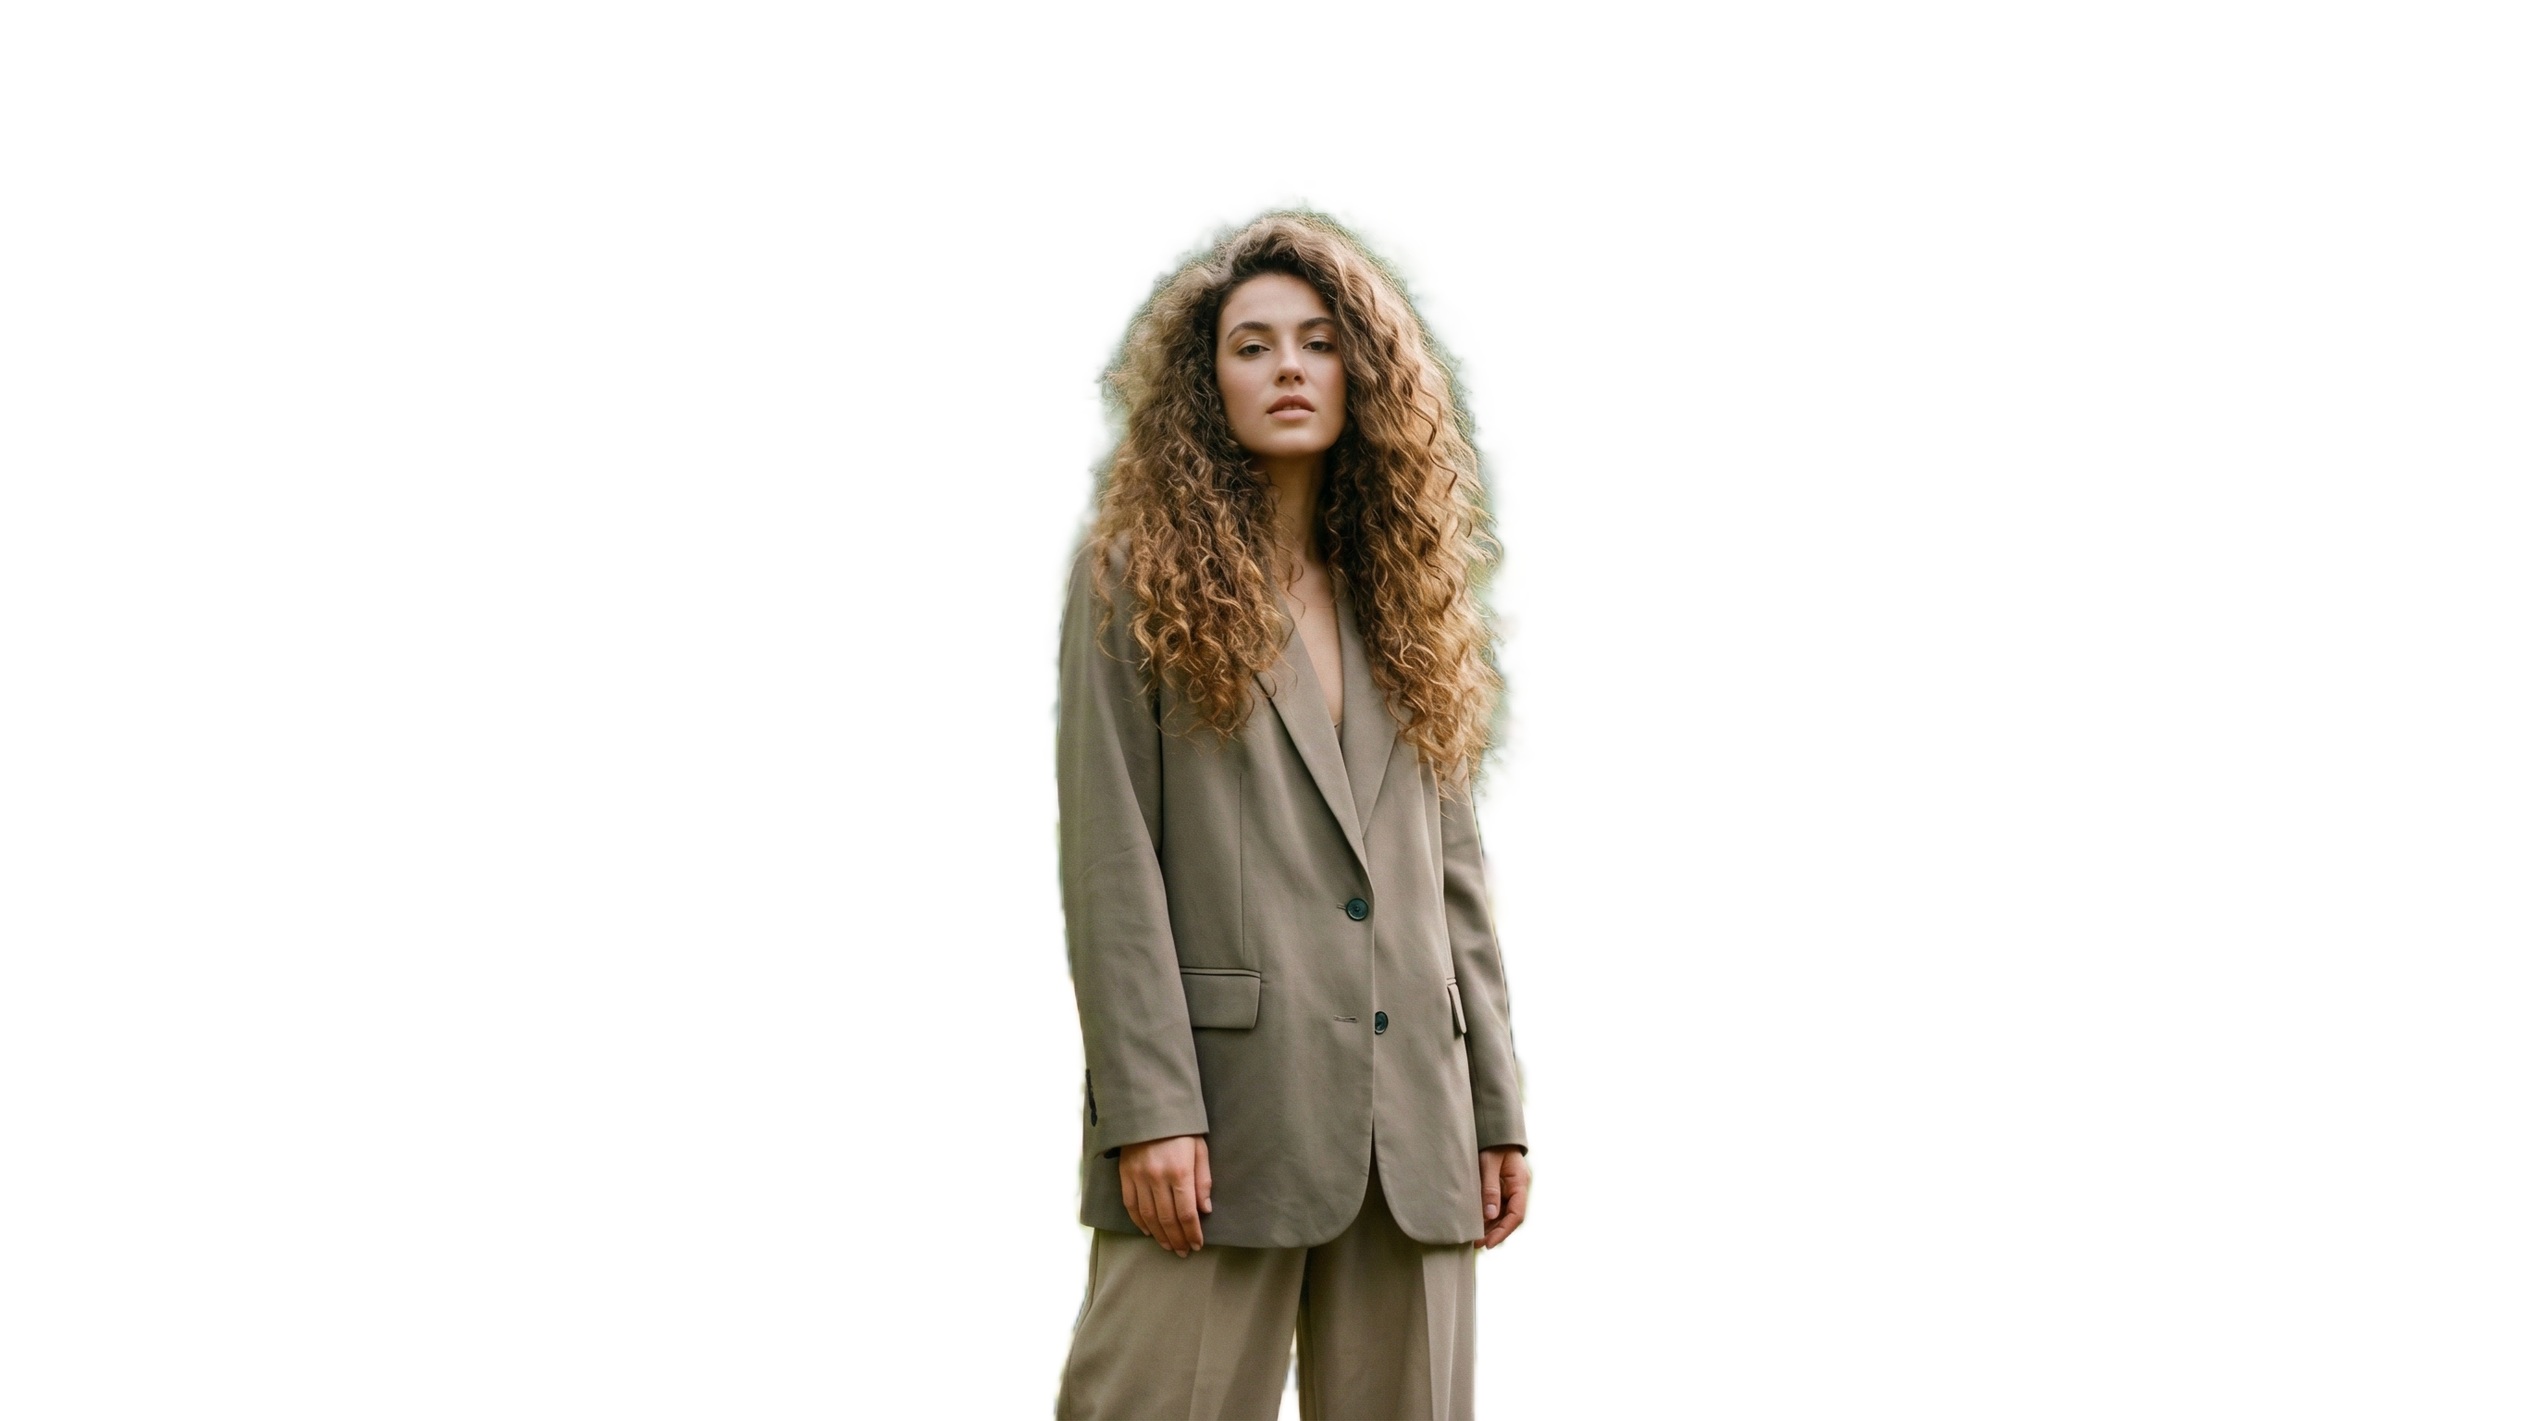
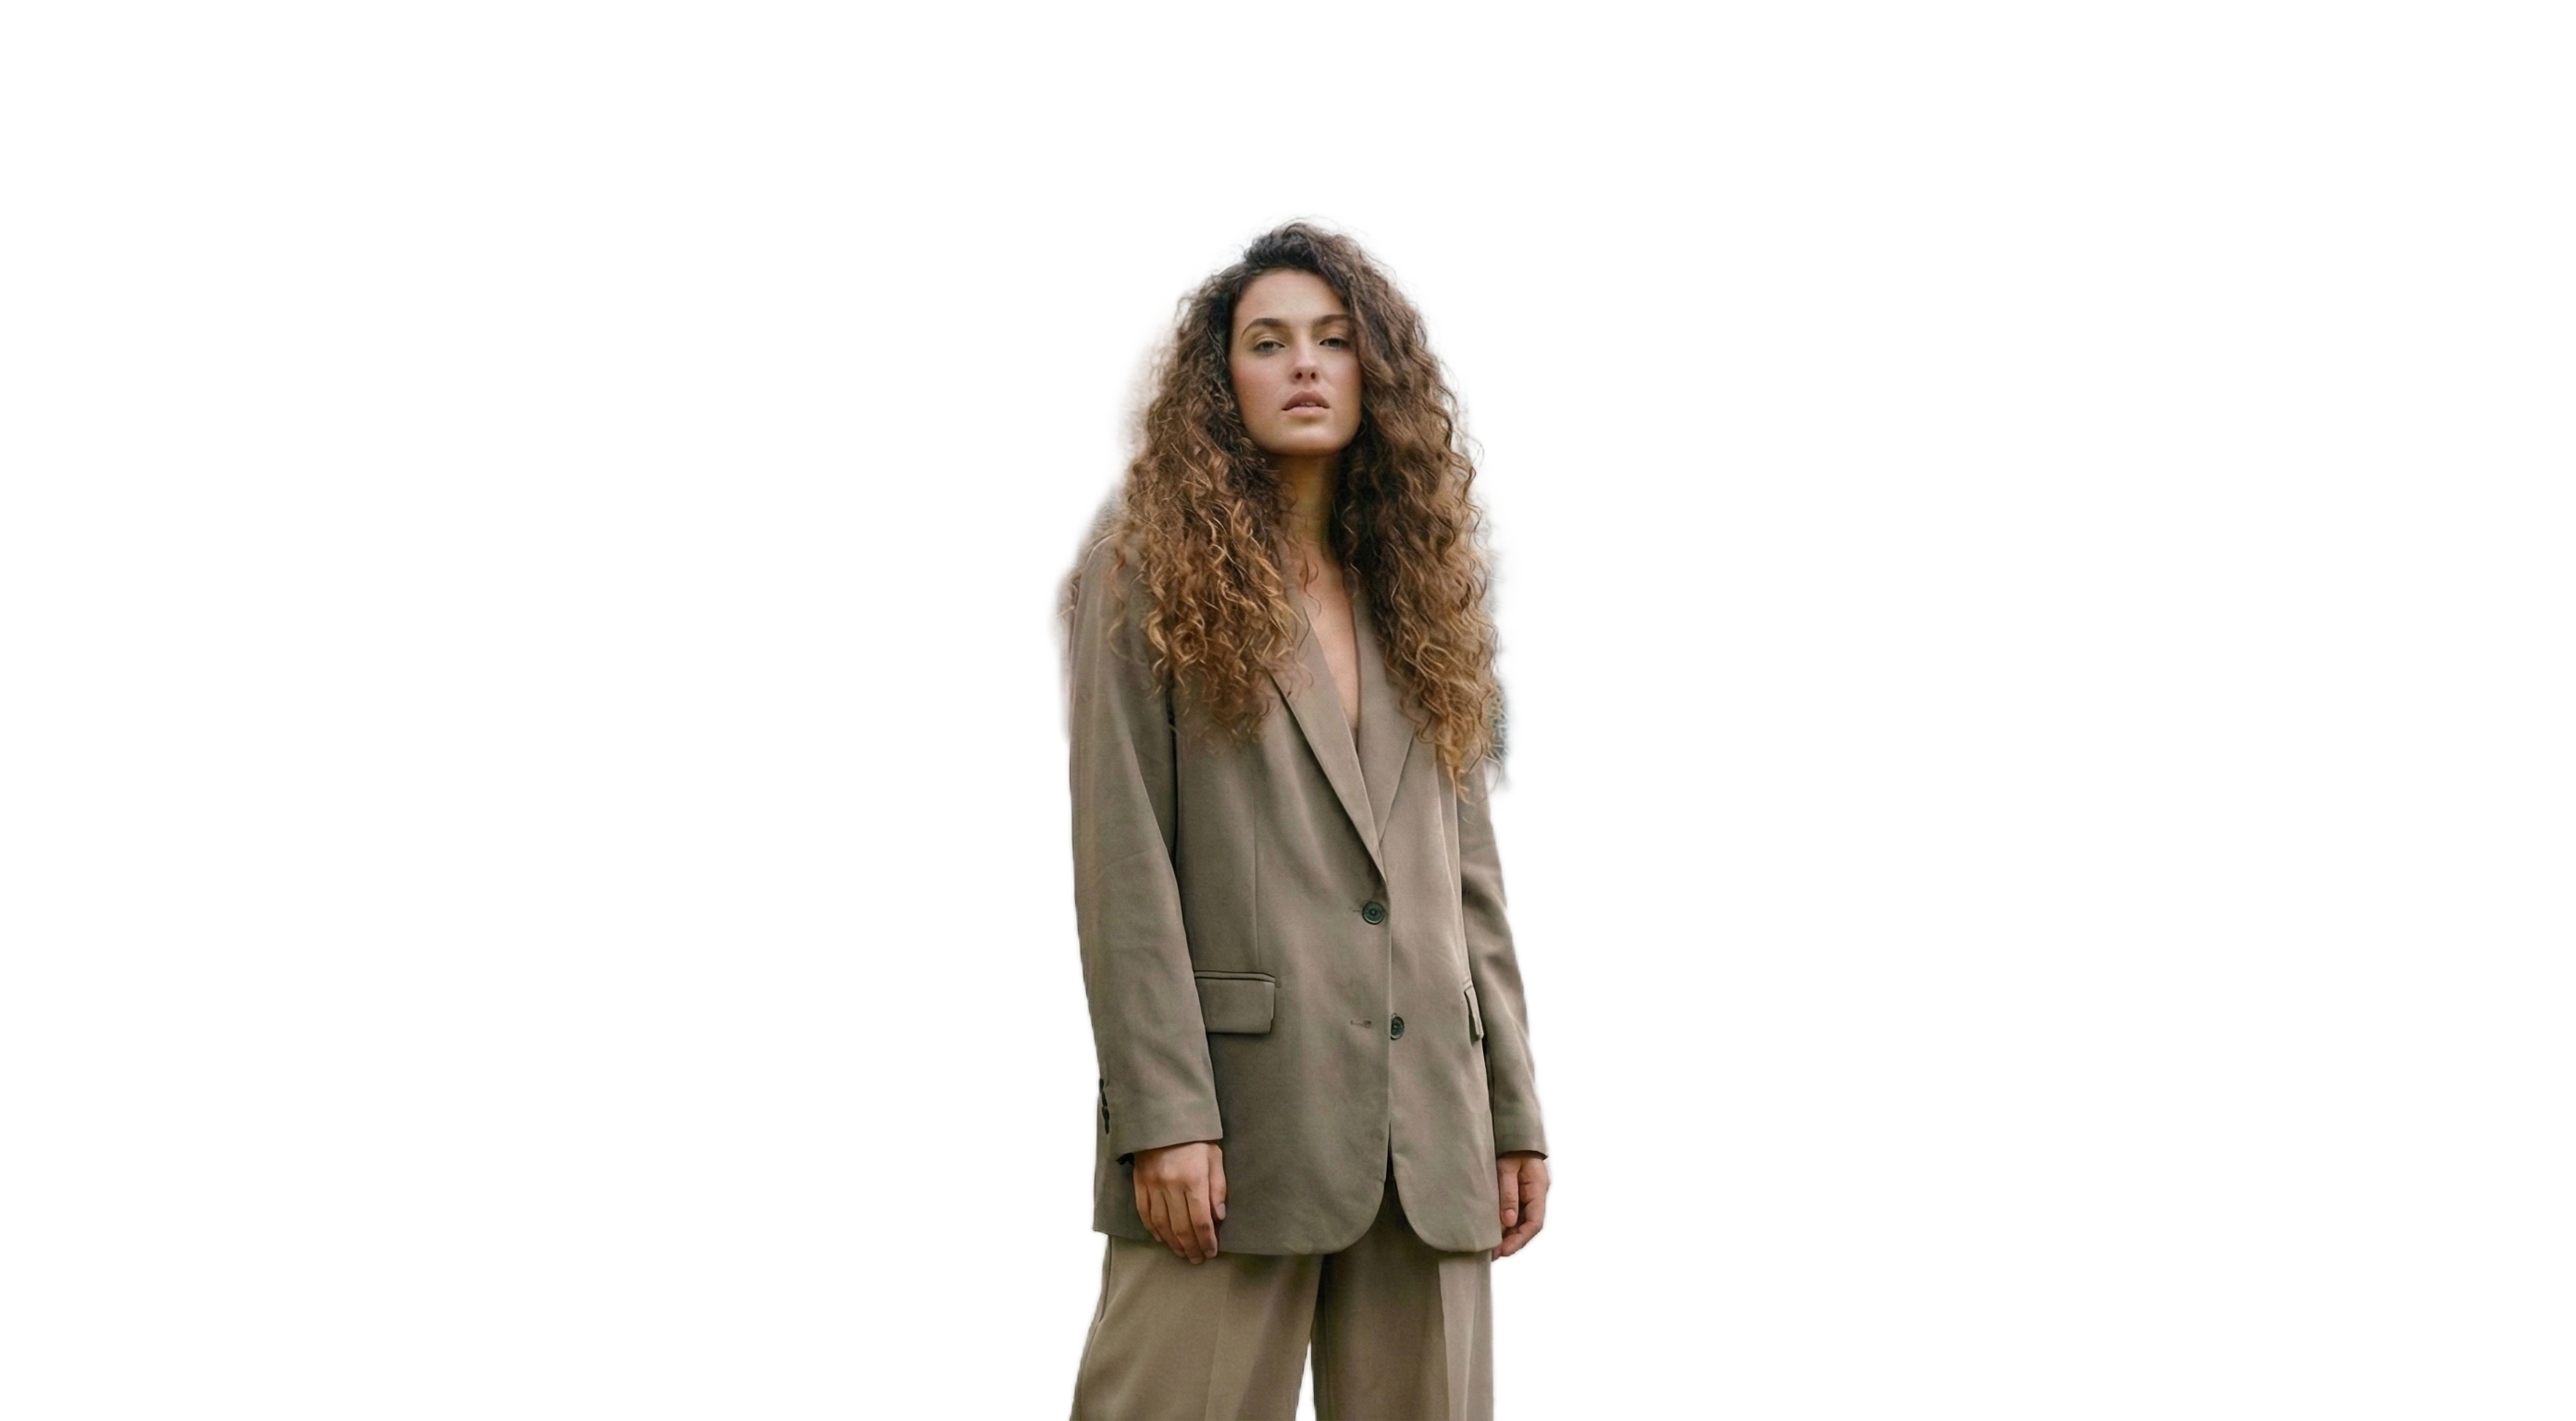
feat: enhance editor, add legal pages, and refine animations
- Added Privacy Policy and Terms of Service pages with navigation back to home.
- Fixed unclickable 'Apply & Done' button by resolving z-index conflicts.
- Optimized aspect ratio handling and enabled 'Free' crop mode by default.
- Refined animation speeds across the app for a snappier feel.
- Standardized global styles import in Layout.astro.
- Cleaned up footer by removing Cookie Policy and redundant links.

diff --git a/src/components/Footer.tsx b/src/components/Footer.tsx
@@ -1,10 +1,12 @@
 import { Zap } from "lucide-react";
 
 export default function Footer() {
+	const currentYear = new Date().getFullYear();
+
 	return (
 		<footer className="relative py-20 px-6 border-t border-border bg-card">
 			<div className="max-w-[1400px] mx-auto">
-				<div className="grid grid-cols-1 md:grid-cols-4 gap-12 mb-16">
+				<div className="grid grid-cols-1 md:grid-cols-3 gap-12 mb-16">
 					<div className="col-span-1 md:col-span-2 space-y-6">
 						<div className="flex items-center gap-2 text-sm font-medium">
 							<div className="w-8 h-8 bg-primary rounded-lg flex items-center justify-center">
@@ -19,74 +21,31 @@ export default function Footer() {
 					</div>
 
 					<div className="space-y-4">
-						<h4 className="text-sm font-semibold text-foreground">Product</h4>
-						<ul className="space-y-2 text-sm text-muted-foreground">
-							<li>
-								<a
-									href="/remove"
-									className="hover:text-foreground transition-colors"
-								>
-									Remover
-								</a>
-							</li>
-							<li>
-								<a
-									href="/#features"
-									className="hover:text-foreground transition-colors"
-								>
-									Features
-								</a>
-							</li>
-							<li>
-								<a
-									href="/#how-it-works"
-									className="hover:text-foreground transition-colors"
-								>
-									How it works
-								</a>
-							</li>
-						</ul>
-					</div>
-
-					<div className="space-y-4">
 						<h4 className="text-sm font-semibold text-foreground">Legal</h4>
 						<ul className="space-y-2 text-sm text-muted-foreground">
 							<li>
-								<a href="/" className="hover:text-foreground transition-colors">
+								<a
+									href="/privacy"
+									className="hover:text-foreground transition-colors"
+								>
 									Privacy Policy
 								</a>
 							</li>
 							<li>
-								<a href="/" className="hover:text-foreground transition-colors">
+								<a
+									href="/terms"
+									className="hover:text-foreground transition-colors"
+								>
 									Terms of Service
-								</a>
-							</li>
-							<li>
-								<a href="/" className="hover:text-foreground transition-colors">
-									Cookie Policy
 								</a>
 							</li>
 						</ul>
 					</div>
 				</div>
 
-				<div className="flex flex-col md:flex-row items-center justify-between gap-6 pt-8 border-t border-border">
+				<div className="flex flex-col md:flex-row items-center justify-center gap-6 pt-8 border-t border-border">
 					<div className="flex items-center gap-2 text-xs text-muted-foreground">
-						<span>© 2026 PureBG AI. All rights reserved.</span>
-					</div>
-					<div className="flex items-center gap-6 text-xs text-muted-foreground">
-						<a
-							href="https://github.com"
-							className="hover:text-foreground transition-colors"
-						>
-							GitHub
-						</a>
-						<a
-							href="https://twitter.com"
-							className="hover:text-foreground transition-colors"
-						>
-							Twitter
-						</a>
+						<span>© {currentYear} PureBG AI. All rights reserved.</span>
 					</div>
 				</div>
 			</div>

diff --git a/src/components/editor/EditorSidebar.tsx b/src/components/editor/EditorSidebar.tsx
@@ -4,9 +4,13 @@ import {
 	FlipVertical,
 	Keyboard,
 	Maximize,
+	Monitor,
+	Move,
 	Paintbrush,
 	Palette,
 	RotateCw,
+	Smartphone,
+	Square,
 	Undo2,
 	ZoomIn,
 } from "lucide-react";
@@ -49,6 +53,9 @@ export default function EditorSidebar() {
 		setFlipY,
 		zoom,
 		setZoom,
+		aspect,
+		setAspect,
+		imageAspect,
 	} = useEditorStore();
 
 	return (
@@ -223,6 +230,62 @@ export default function EditorSidebar() {
 									onClick={() => setFlipY(!flipY)}
 								>
 									<FlipVertical className="w-4 h-4" />
+								</Button>
+							</div>
+						</div>
+
+						<div>
+							<h4 className="text-xs font-black text-muted-foreground uppercase tracking-widest mb-4 flex items-center gap-2">
+								<Square className="w-3 h-3" /> Aspect Ratio
+							</h4>
+							<div className="grid grid-cols-3 gap-2">
+								<Button
+									variant="secondary"
+									className={`h-auto py-2.5 flex-col gap-1 text-[10px] uppercase font-bold tracking-tight ${aspect === imageAspect ? "bg-primary/10 text-primary border-primary/20" : ""}`}
+									onClick={() => setAspect(imageAspect)}
+								>
+									<Maximize className="w-3.5 h-3.5" />
+									Original
+								</Button>
+								<Button
+									variant="secondary"
+									className={`h-auto py-2.5 flex-col gap-1 text-[10px] uppercase font-bold tracking-tight ${aspect === undefined ? "bg-primary/10 text-primary border-primary/20" : ""}`}
+									onClick={() => setAspect(undefined)}
+								>
+									<Move className="w-3.5 h-3.5" />
+									Free
+								</Button>
+								<Button
+									variant="secondary"
+									className={`h-auto py-2.5 flex-col gap-1 text-[10px] uppercase font-bold tracking-tight ${aspect === 1 ? "bg-primary/10 text-primary border-primary/20" : ""}`}
+									onClick={() => setAspect(1)}
+								>
+									<Square className="w-3.5 h-3.5" />
+									1:1
+								</Button>
+								<Button
+									variant="secondary"
+									className={`h-auto py-2.5 flex-col gap-1 text-[10px] uppercase font-bold tracking-tight ${aspect === 4 / 3 ? "bg-primary/10 text-primary border-primary/20" : ""}`}
+									onClick={() => setAspect(4 / 3)}
+								>
+									<div className="w-4 h-3 border-2 border-current rounded-sm shrink-0" />
+									4:3
+								</Button>
+								<Button
+									variant="secondary"
+									className={`h-auto py-2.5 flex-col gap-1 text-[10px] uppercase font-bold tracking-tight ${aspect === 16 / 9 ? "bg-primary/10 text-primary border-primary/20" : ""}`}
+									onClick={() => setAspect(16 / 9)}
+								>
+									<Monitor className="w-3.5 h-3.5" />
+									16:9
+								</Button>
+								<Button
+									variant="secondary"
+									className={`h-auto py-2.5 flex-col gap-1 text-[10px] uppercase font-bold tracking-tight ${aspect === 9 / 16 ? "bg-primary/10 text-primary border-primary/20" : ""}`}
+									onClick={() => setAspect(9 / 16)}
+								>
+									<Smartphone className="w-3.5 h-3.5" />
+									9:16
 								</Button>
 							</div>
 						</div>

diff --git a/src/components/editor/useEditorStore.ts b/src/components/editor/useEditorStore.ts
@@ -10,7 +10,8 @@ interface EditorState {
 	// Crop/Transform
 	crop: Point;
 	zoom: number;
-	aspect: number;
+	aspect: number | undefined;
+	imageAspect: number | undefined;
 	rotation: number;
 	flipX: boolean;
 	flipY: boolean;
@@ -43,7 +44,8 @@ interface EditorActions {
 	setCrop: (crop: Point | ((p: Point) => Point)) => void;
 	setZoom: (zoom: number | ((z: number) => number)) => void;
 
-	setAspect: (aspect: number) => void;
+	setAspect: (aspect: number | undefined) => void;
+	setImageAspect: (aspect: number) => void;
 	setRotation: (rotation: number | ((r: number) => number)) => void;
 	setFlipX: (flip: boolean) => void;
 	setFlipY: (flip: boolean) => void;
@@ -76,7 +78,8 @@ const initialState: EditorState = {
 	processedImageSource: "",
 	crop: { x: 0, y: 0 },
 	zoom: 1,
-	aspect: 4 / 3,
+	aspect: undefined,
+	imageAspect: undefined,
 	rotation: 0,
 	flipX: false,
 	flipY: false,
@@ -127,6 +130,9 @@ export const useEditorStore = create<EditorStore>((set, get) => ({
 		})),
 
 	setAspect: (aspect) => set({ aspect }),
+	setImageAspect: (aspect: number) => {
+		set({ imageAspect: aspect });
+	},
 	setRotation: (rotation) =>
 		set((state) => ({
 			rotation:

diff --git a/src/components/editor/EditorToolbar.tsx b/src/components/editor/EditorToolbar.tsx
@@ -8,8 +8,8 @@ interface EditorToolbarProps {
 
 export default function EditorToolbar({ onExit, onSave }: EditorToolbarProps) {
 	return (
-		<div className="absolute top-6 left-6 right-6 flex items-center justify-end gap-3 z-10 pointer-events-none">
-			<div className="flex gap-2 pointer-events-auto">
+		<div className="absolute top-6 left-6 right-6 flex items-center justify-end gap-3 z-50 pointer-events-none">
+			<div className="flex gap-2 pointer-events-auto items-center">
 				<Button
 					variant="secondary"
 					size="sm"
@@ -20,11 +20,16 @@ export default function EditorToolbar({ onExit, onSave }: EditorToolbarProps) {
 					<X className="w-4 h-4" />
 					Exit Editor
 				</Button>
+				<Button
+					variant="default"
+					size="sm"
+					onClick={onSave}
+					className="shadow-lg shadow-primary/20"
+				>
+					<Check className="w-4 h-4" />
+					Apply & Done
+				</Button>
 			</div>
-			<Button variant="default" size="sm" onClick={onSave}>
-				<Check className="w-4 h-4" />
-				Apply & Done
-			</Button>
 		</div>
 	);
 }

diff --git a/src/components/editor/CropperWorkspace.tsx b/src/components/editor/CropperWorkspace.tsx
@@ -10,7 +10,7 @@ export default function CropperWorkspace() {
 		zoom,
 		setZoom,
 		aspect,
-		setAspect,
+		setImageAspect,
 		rotation,
 		bgColor,
 		setCroppedAreaPixels,
@@ -51,13 +51,14 @@ export default function CropperWorkspace() {
 				image={processedImageSource}
 				crop={crop}
 				zoom={zoom}
-				aspect={aspect}
+				aspect={aspect || undefined}
 				rotation={rotation}
 				onCropChange={setCrop}
 				onZoomChange={setZoom}
 				onMediaLoaded={(mediaSize) => {
-					setAspect(mediaSize.naturalWidth / mediaSize.naturalHeight);
+					setImageAspect(mediaSize.naturalWidth / mediaSize.naturalHeight);
 				}}
+				objectFit="contain"
 				onCropComplete={onCropComplete}
 				zoomWithScroll={false} // Disable default to use our Alt+Wheel
 				style={{

diff --git a/src/components/editor/RefineOverlay.tsx b/src/components/editor/RefineOverlay.tsx
@@ -177,7 +177,7 @@ export default function RefineOverlay() {
 	return (
 		<div
 			ref={containerRef}
-			className={`absolute inset-0 z-50 bg-checkered overflow-hidden flex items-center justify-center ${isSpacePressed ? (isDrawing ? "cursor-grabbing" : "cursor-grab") : "cursor-none"}`}
+			className={`absolute inset-0 z-40 bg-checkered overflow-hidden flex items-center justify-center ${isSpacePressed ? (isDrawing ? "cursor-grabbing" : "cursor-grab") : "cursor-none"}`}
 			onMouseDown={handleStart}
 			onMouseMove={handleMouseMove}
 			onMouseUp={handleUp}

diff --git a/src/components/ImageEditor.tsx b/src/components/ImageEditor.tsx
@@ -1,5 +1,4 @@
 import { useEffect } from "react";
-
 import CropperWorkspace from "./editor/CropperWorkspace";
 import EditorSidebar from "./editor/EditorSidebar";
 import EditorToolbar from "./editor/EditorToolbar";
